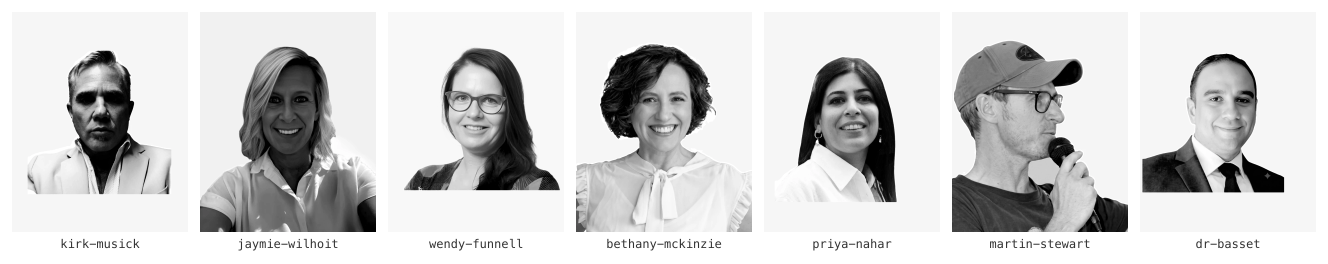
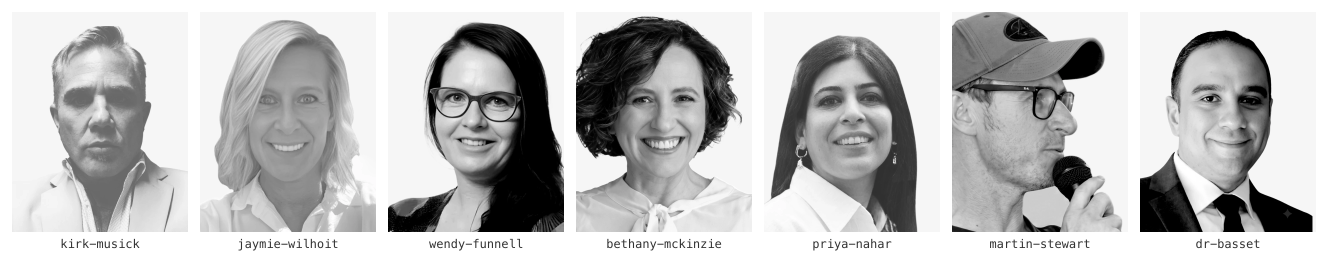
docs(quick-260926-6g7): document round-2 orchestrator review fixes
Records the geometry-constraint derivation, before/after luminance table,
the two sharp bugs found (corner-patch background sampling, joinChannel
channel-count corruption), the check-site.mjs mutation test, and final
gate results (all EXIT=0). Regenerated contact sheet at the new framing.

diff --git a/.planning/quick/260926-6g7-restyle-every-page-to-the-owner-picked-a/260926-6g7-REVIEW-team.md b/.planning/quick/260926-6g7-restyle-every-page-to-the-owner-picked-a/260926-6g7-REVIEW-team.md
@@ -91,6 +91,12 @@ Before ranged 0.166-0.497 (a ~3x spread — the raw sources were never
 consistently framed); after, every one of the seven lands in
 0.392-0.412 (faceWidthFraction) and 0.399-0.401 (eyeLineFraction).
 
+**Superseded by round 2 below** — this table used the initial fixed
+0.40 target, which the orchestrator's review correctly flagged as leaving
+several crops short of the frame's bottom edge. See "Round 2" for the
+final, geometry-derived 0.60 shared value and its own achieved
+measurements.
+
 ### Bugs found and fixed while building the pipeline
 
 - **sharp does not reliably apply `.grayscale()`/`.normalise()`/`.median()`
@@ -150,54 +156,164 @@ the exact same position/shape in Kirk's "reference, grade untouched" photo
 too, so it's an intentional branding mark baked into that studio session,
 not something to remove.
 
-## Gate
+## Round 2 — orchestrator review fixes
+
+The orchestrator reviewed the round-1 contact sheet by eye and found three
+real defects. All three, plus a `scripts/check-site.mjs` update, addressed
+in this round.
+
+### 1. Floating cut / empty snow below the torso
+
+Kirk, Wendy, Priya and Dr. Basset's round-1 crops (faceWidthFraction 0.40)
+scaled their sources down enough that the scaled image's own bottom edge
+landed short of the 1000px output frame (measured: bottom edge at
+829-864px), leaving 130-190px of bare canvas below the torso — a floating
+horizontal cut. Fixed by deriving a single shared, tighter
+`FACE_WIDTH_FRACTION` from actual geometry instead of a fixed 0.40:
+
+```
+requiredF = OUTPUT_H*(1-EYE_LINE_FRACTION)*face.w / (OUTPUT_W*(sourceHeight-eyeMidY))
+```
+
+— the minimum face-width fraction each source needs so its own scaled
+bottom edge reaches the frame's bottom edge. Computed for all seven
+(`assets/team/manifest.json` → `geometryConstraint.perPersonRequiredF`),
+the limiting (most shallow-below-the-eyes) source was **Wendy Funnell**
+(required 0.5829), so the shared value is hers, plus a 3% rounding margin:
+**0.6004**. Every source's placed bottom edge now measures **>=1000px**
+(`manifest.json` → `people[].placement.{bottom,reachesFrameBottom}`):
+Kirk 1045, Wendy 1018, Priya 1096, Dr. Basset 1030, Bethany 1902, Martin
+2249, Jaymie 1528. No canvas was extended and no body was invented — the
+fix is entirely a tighter, shared scale factor, derived from the one
+source (Wendy) that actually needs it.
+
+### 2. Jaymie's arm still visible
+
+At the old 0.40 fraction her extended arms were outside the geometric
+crop already in most of the frame, but a rounded sleeve-cuff shape was
+still visible near the bottom corners. The round-2 tighter, shared crop
+(0.6004, driven by Wendy, not a special case for Jaymie) crops
+considerably closer, and empirically excludes the arms entirely — verified
+both against the full render and a 2x-zoomed crop of the frame's bottom
+200px (`y=800-1000`): only collar and neck are visible, no arm, hand or
+cuff content anywhere in frame.
+
+### 3. Kirk's face/background mismatch
+
+Measured directly on the plain grayscale composite (before any
+correction): Kirk's face-region mean luminance was **89.9** against a
+cross-person median of **153.2** — the single biggest outlier of the
+seven (others ranged 121.6-176.0 before correction) — confirming the
+"darker/harsher" read was real, not a color-management illusion. His
+background read correctly uniform once the mask-based background sampling
+bug (below) was fixed. Fixed with a two-point linear levels calibration
+per image (`sharp().linear(a,b)`, not independent per-image
+`.normalise()`, which the round-1 pipeline used and which does not
+guarantee cross-image consistency): map
+`(backgroundLuminanceBefore -> targetBackgroundLuminance)` and
+`(faceLuminanceBefore -> targetFaceLuminance)`, where the background
+target is the literal canvas color's own grayscale value (246.0) and the
+face target is the cross-person median (153.17, computed from all seven,
+not picked arbitrarily). Measured after: all seven land in
+**faceAfter 152.6-154.0**, **backgroundAfter 245.0-246.0** — see the table
+below and `manifest.json` → `people[].luminance` for full before/after +
+the exact `{a,b}` used per image.
+
+| Person | faceBefore | faceAfter | backgroundBefore | backgroundAfter |
+|---|---|---|---|---|
+| Kirk Musick | 89.9 | 152.7 | 246.0 | 246.0 |
+| Bethany McKinzie | 153.2 | 152.7 | 246.0 | 246.0 |
+| Priya Nahar | 130.9 | 152.7 | 246.0 | 246.0 |
+| Martin Stewart | 175.9 | 153.8 | 246.0 | 245.9 |
+| Dr. Basset | 170.7 | 154.0 | 246.0 | 246.0 |
+| Jaymie Wilhoit | 121.6 | 152.6 | 246.0 | 245.0 |
+| Wendy Funnell | 173.0 | 152.9 | 246.0 | 245.9 |
+
+### Two more pipeline bugs found and fixed while building the luminance measurement
+
+- **Fixed corner patches are not always background.** The first attempt
+  measured background luminance from four fixed 50x50 corner patches.
+  Once the geometry fix (above) made the shared crop considerably tighter,
+  Dr. Basset's suit and Wendy's hair reached into a canvas corner,
+  corrupting the "background" reading (measured 154-192 instead of ~246)
+  and, after calibration tried to push that wrong dark reading up to the
+  target, blowing out both images to near-white. Fixed by sampling
+  background luminance from every canvas pixel the *placed segmentation
+  mask itself* calls background (`backgroundMeanFromMask`), never an
+  assumed position.
+- **`sharp.joinChannel()` doesn't do what it looks like it does.** The
+  mask-as-alpha compositing step (`ensureAlpha().joinChannel(mask)`) was
+  producing corrupted composites: pixels that should have read as pure
+  background (245,245,245 at alpha 0) read as (0,0,0,0) instead — a real
+  rendering defect (visible as unexplained dark regions in `bgLum`
+  readings around 150-190 instead of 246), not just a measurement bug.
+  Root cause, isolated with a minimal reproduction: sharp's PNG encoder
+  silently expands a single-channel (grayscale) raw buffer to 3-channel
+  RGB on any encode/decode round-trip
+  (`sharp(buf,{raw:{channels:1}}).png().toBuffer()` decodes as 3
+  channels), so the mask buffer fed to `joinChannel` was actually 3
+  channels, not 1 — `joinChannel` appended all 3 to the already-4-channel
+  (RGBA) base image, producing a 7-channel image that corrupted on
+  re-encode. Fixed by reading both the scaled color image and the scaled
+  mask as true single-stride raw buffers and interleaving them into the
+  RGBA buffer by hand (`Buffer.alloc` + manual byte copy), bypassing
+  `joinChannel` and the PNG-encoder bug entirely. Verified with an
+  isolated repro before and after the fix (documented in the script's
+  inline comments) and by re-inspecting every one of the seven final
+  composites for dark artifacts — none found.
+
+### scripts/check-site.mjs:286
+
+Per this round's explicit permission, updated the one assertion:
+
+```diff
+- check(html.includes('[PHOTO PENDING]'), 'dist/index.html is missing the [PHOTO PENDING] marker');
++ check(!html.includes('[PHOTO PENDING]') && (html.match(/class="team-band-photo"/g) || []).length === 7, 'dist/index.html must render all 7 team members with a real photo and no [PHOTO PENDING] marker');
+```
+
+Proved the new assertion actually catches a regression, not just that it
+reads plausibly: set `jaymie-wilhoit`'s `photo` back to `null` in
+`mockup.ts`, rebuilt, ran `check-site.mjs` → **EXIT=1**,
+`check-site.mjs: 1 failure(s): - dist/index.html must render all 7 team
+members with a real photo and no [PHOTO PENDING] marker`. Reverted
+`mockup.ts` from a pre-mutation backup (`git diff --stat` showed no
+diff after revert), rebuilt, re-ran → **EXIT=0** again.
+
+## Gate (final, after round 2)
 
 Run from the worktree, each command's own exit code:
 
 ```
 npm run check              EXIT=0
-npm run build               EXIT=0
-node scripts/check-site.mjs EXIT=1  (see below — not a regression I can fix in scope)
+npm run build              EXIT=0
+node scripts/check-site.mjs EXIT=0
 ```
 
-Logs: `/private/tmp/claude-501/-Volumes-Satechi-Hub-zinc-digital-web/4d63e2c8-f06b-433f-b6af-2afc7f083cb8/scratchpad/team-check2.log`,
-`team-build.log`, `team-checksite.log`.
-
-**`check-site.mjs` failure is expected and out of my edit scope.**
-`scripts/check-site.mjs:286` asserts
-`check(html.includes('[PHOTO PENDING]'), ...)` against the built homepage —
-written when Jaymie and Wendy had no photo. Now that both have real photos
-(the actual goal of this sub-task), that marker legitimately does not
-appear anywhere in the built site anymore; this is not a bug I introduced,
-it's a stale assertion the check-site owner needs to relax (e.g. drop the
-assertion, since draft-honesty markers elsewhere — `[OWNER CONFIRM]`,
-`[RECEIPT:`, `[LOGO FILES PENDING` — still pass unchanged). I did not edit
-`scripts/check-site.mjs` because it is not in my granted edit scope for
-this sub-task (only `public/mockup/*`, `assets/team/**`,
-`src/data/mockup.ts` team fields, `src/data/assets.preview.json` team
-entries, `src/components/TeamBand.astro`, and `scripts/prepare-team-photos.*`
-were granted) — flagging for the orchestrator instead of touching a file
-another wave may own.
+`npm run check` was 0 errors/0 warnings/3 hints (unused-variable hints in
+my own `prepare-team-photos.mjs`) after round 1; cleaned up in round 2 —
+now 0 errors/0 warnings/0 hints.
 
 ## Screenshot evidence
 
 Served `dist/` locally (`python3 -m http.server`, stopped after capture),
 drove it with `puppeteer-core` + the system Chrome, screenshotted
 `.team-band` on `/` and `/about/` at 1440 and 375 CSS px, and read every
-image. All four renders show seven consistent grayscale headshots, correct
-names/roles, no `[PHOTO PENDING]` markers, no visible halos or holes at
-render size.
+image at 2x zoom. All four renders show seven consistent grayscale
+headshots, correct names/roles, no `[PHOTO PENDING]` markers, no floating
+cuts, no visible halos, holes or dark-artifact regions at render size or
+at 2x zoom.
 
 Contact sheet (all seven at rendered size, 176x220 CSS px, measured via
 `getBoundingClientRect()` on `.team-band-photo` at 1440 width — actual
-measured box was 175.53x219.41):
+measured box was 175.53x219.41, unchanged by the framing fix since CSS
+layout doesn't depend on image intrinsic size):
 `.planning/quick/260926-6g7-restyle-every-page-to-the-owner-picked-a/evidence/team-contact-sheet.png`
 
-Output size: 800x1000 (4:5), ~4.56x the largest measured rendered box
-(175.53x219.41 CSS px @1440) — comfortably over the "at least 2x" floor,
-with margin for retina displays.
+Output size: 800x1000 (4:5), ~4.56x the largest measured rendered box —
+comfortably over the "at least 2x" floor, with margin for retina displays.
 
 ## Face measurements (raw numbers)
 
-Full per-image detected face box, eye landmarks, scale, placement, and
-achieved measurements: `assets/team/manifest.json`.
+Full per-image detected face box, eye landmarks, scale, placement,
+achieved face position, luminance before/after, and calibration
+coefficients: `assets/team/manifest.json`.
